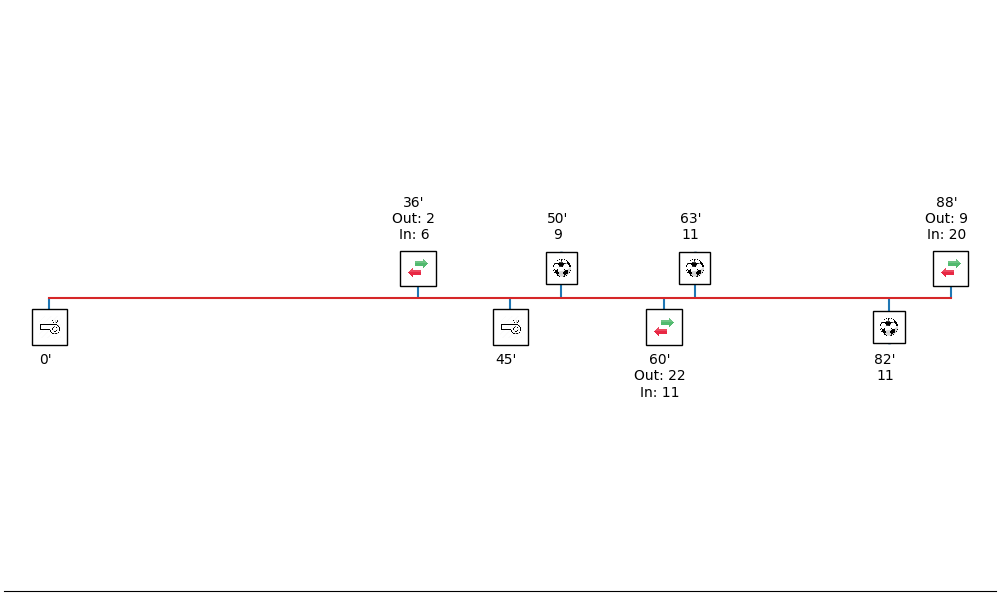
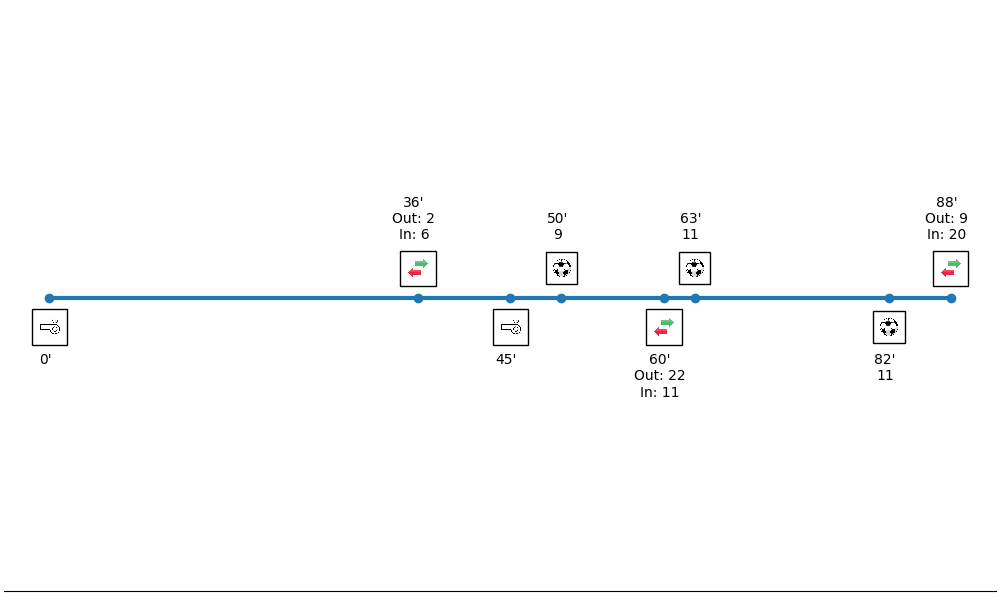
improved timeline and lineup

Changed region(s): [[0.031, 0.48, 0.961, 0.51]]

diff --git a/public/script/StartingLineup.py b/public/script/StartingLineup.py
@@ -1,6 +1,7 @@
 import sys
 import requests
 import json
+import matplotlib.pyplot as plt
 from pandas import json_normalize
 from mplsoccer import Pitch, VerticalPitch, FontManager
 from mplsoccer.statsbomb import read_event, EVENT_SLUG
@@ -34,17 +35,28 @@ def lineup(m_id,t1, l_data):
         '25' : [97,40],
 
     }
-    pitch = VerticalPitch(half = False, pitch_type='statsbomb',pitch_color='grass', line_color='white', stripe=True)  # showing axis labels is optional
+    
+    pitch = Pitch(half = False, pitch_type='statsbomb',pitch_color='grass', line_color='white', stripe=True)  # showing axis labels is optional
     fig, ax = pitch.draw(figsize=(10, 8), constrained_layout=False, tight_layout=True) 
     df = json_normalize(l_data, sep = "_").assign(match_id = m_id)  
     t1_data =  df.loc[df['team_name'] == t1].set_index('team_id')
-    print (t1_data)  
     for x in t1_data['lineup']:
         #print(df['team_name'])
         for y in x:
             for variable in y['positions']:
                 if variable['start_reason'] == "Starting XI":
-                    annotation = ax.annotate(str(y['jersey_number']),(posToCoord[str(variable['position_id'])][1],posToCoord[str(variable['position_id'])][0]), fontsize=30, ha='center')
+                    sc1 = pitch.scatter(posToCoord[str(variable['position_id'])][0], posToCoord[str(variable['position_id'])][1]-2,
+                    # size varies between 100 and 1900 (points squared)
+                    s=1550,
+                    edgecolors='#606060',  # give the markers a charcoal border
+                    c='#FFFFFF',  # no facecolor for the markers
+                    # for other markers types see: https://matplotlib.org/api/markers_api.html
+                    marker='o',
+                    ax=ax)
+                    
+                    annotation = ax.annotate(str(y['jersey_number']),(posToCoord[str(variable['position_id'])][0],
+                    posToCoord[str(variable['position_id'])][1]), fontsize=30, ha='center')
+                    #ax2 = add_image(image, fig, left=0.054, bottom=0.84, width=0.08, interpolation='hanning')
     
     fig.savefig('lineup.png', bbox_inches = 'tight')
 import requests

diff --git a/public/script/timeline.py b/public/script/timeline.py
@@ -62,10 +62,11 @@ def generate_timeline(m_id, t1, e_data, l_data, image):
     print (levels)
     # # Create figure and plot a stem plot with the date
     fig, ax = plt.subplots(figsize=(10, 6),  constrained_layout=True)
-    ax.set_facecolor("white")
+    ax.plot(minute, np.zeros_like(minute), "-o", linewidth=3) 
+    #ax.set_facecolor("white")
     # ax.set(title="Real Madrid")
     plt.ylim(-7,7)
-    markerline, stemline, baseline = ax.stem(minute, levels)
+    #markerline, stemline, baseline = ax.stem(minute, levels)
 
     #plt.setp(markerline, mec="k", mfc="w", zorder=3)
 
@@ -130,14 +131,14 @@ def generate_timeline(m_id, t1, e_data, l_data, image):
     for spine in ["left", "top", "right"]:
         ax.spines[spine].set_visible(False)
     plt.savefig(image +'_timeline.png', transparent=True)
-# import requests
-# import json
-# e_site = "https://raw.githubusercontent.com/statsbomb/open-data/master/data/events/18245.json"
-# e_data = json.loads((requests.get(e_site)).text)
-# l_site = "https://raw.githubusercontent.com/statsbomb/open-data/master/data/lineups/18245.json"
-# l_data = json.loads((requests.get(l_site)).text, encoding="utf-8")
+import requests
+import json
+e_site = "https://raw.githubusercontent.com/statsbomb/open-data/master/data/events/18245.json"
+e_data = json.loads((requests.get(e_site)).text)
+l_site = "https://raw.githubusercontent.com/statsbomb/open-data/master/data/lineups/18245.json"
+l_data = json.loads((requests.get(l_site)).text, encoding="utf-8")
 
-# generate_timeline("18245", 'Real Madrid', e_data, l_dat ,"t1")
+generate_timeline("18245", 'Real Madrid', e_data, l_data ,"t1")
 
     # img = Image.open('t1_timeline.png')
     # img = img.convert("RGBA")
